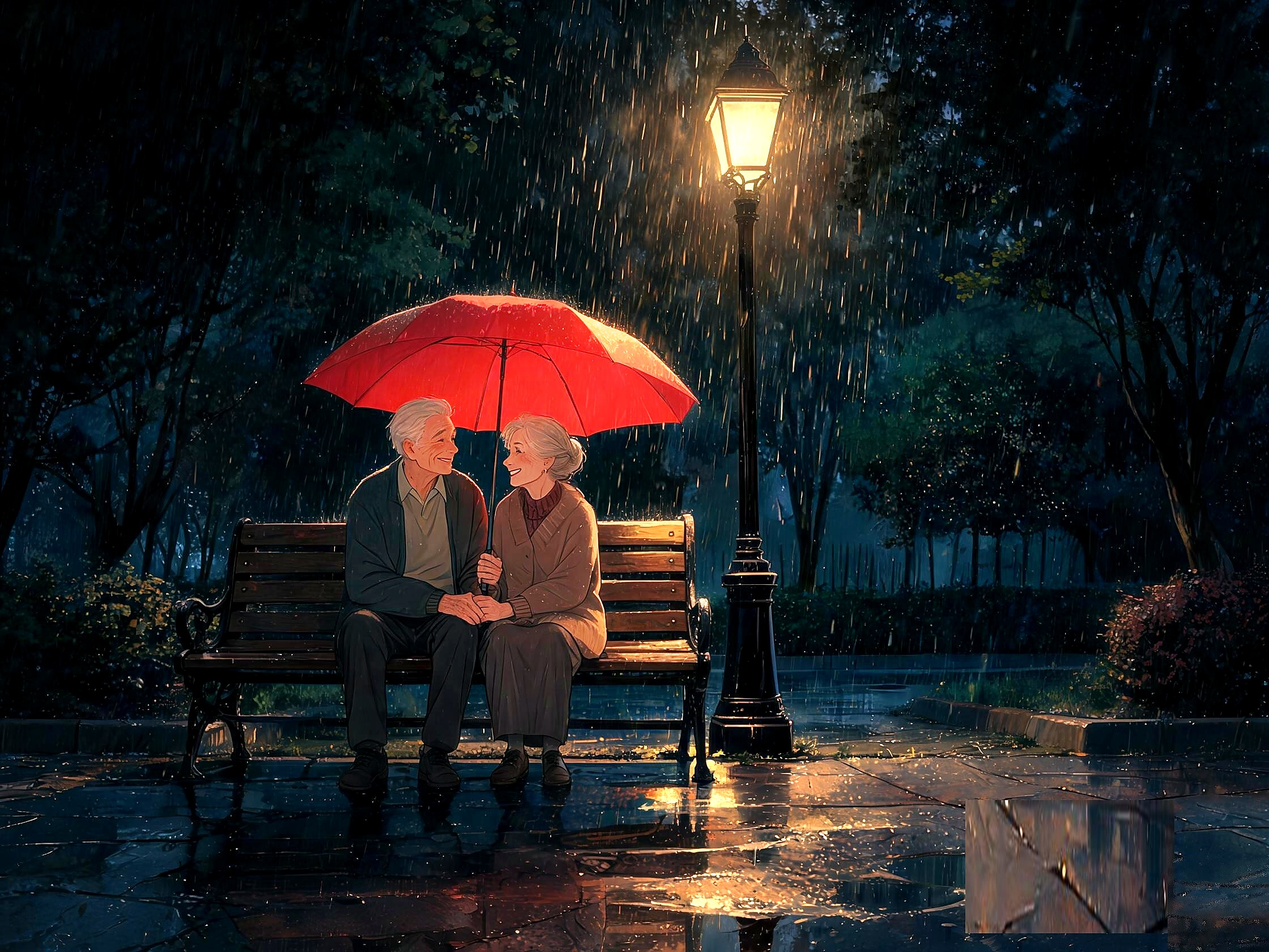
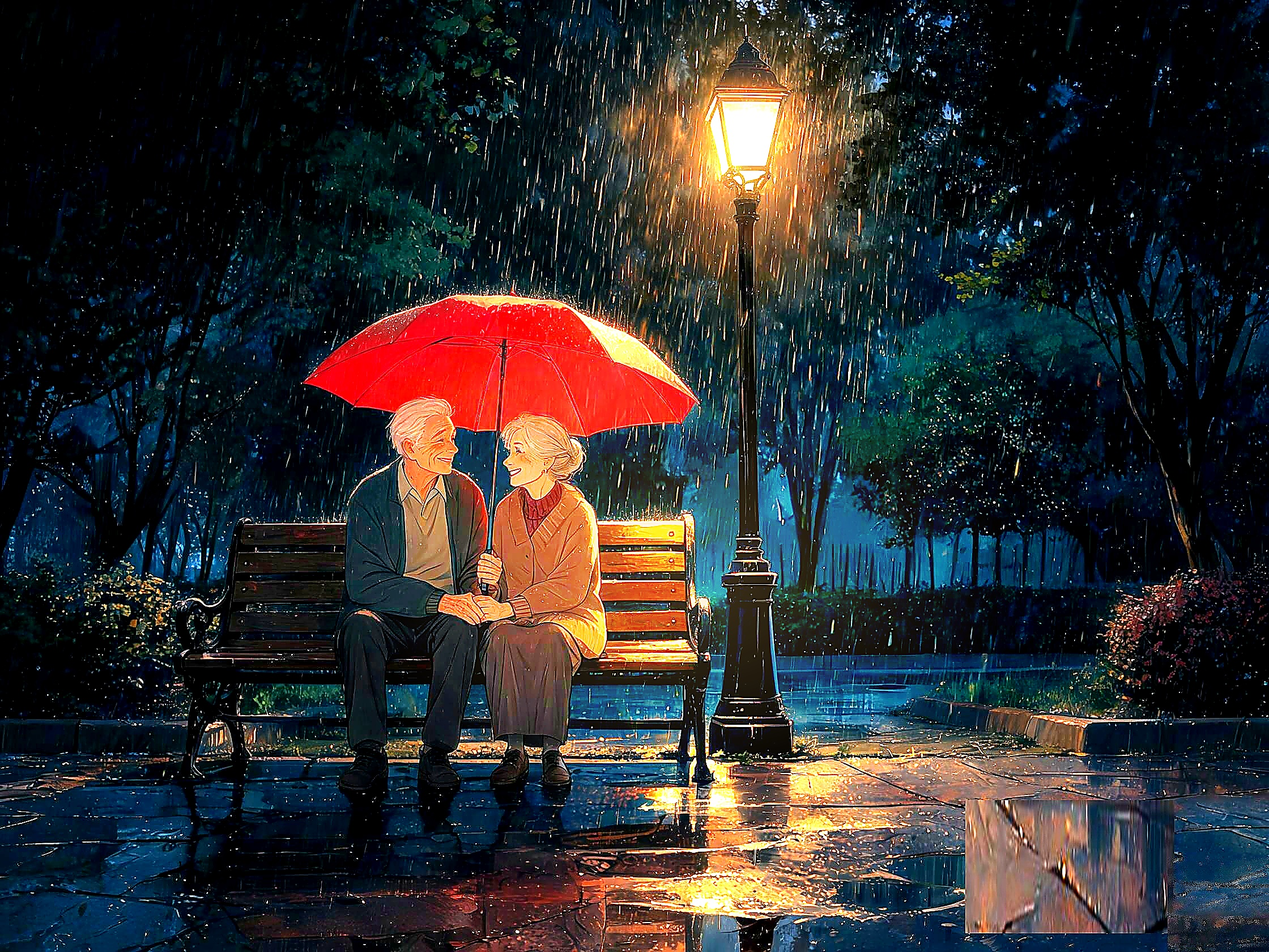
EXTREME FIX: 1) PIL warm images: brighter + radial face brightening + warm color grade + sharpen 2) PIL dark: desat 0.05 + brightness 0.35 + cold blue overlay 45% + heavy vignette 3) Canvas: outside grayscale 0.05 + cold overlay 45% 4) Inside canvas: mild filter + stronger warm glow 5) Global tint o

diff --git a/index.html b/index.html
@@ -283,43 +283,43 @@ function updateSparkle(){
 
 // ===== Background rendering =====
 function drawBgOutside(){
-  // Draw dark image with cold-blue tint — maximize gloom contrast
+  // Draw PIL-processed dark image + extra desaturation/brightness for MAX gloom
   ctx.save();
   ctx.beginPath();
   ctx.rect(0,0,W,H);
   if(phase==='playing'){
     ctx.arc(mirrorX,mirrorY,mirrorRadius,0,Math.PI*2,true); // inverted clip
   }
-  ctx.filter='grayscale(0.1) brightness(0.9) contrast(1.1)';
+  ctx.filter='grayscale(0.05) brightness(0.85) contrast(0.9)';
   drawSceneImage('dark');
   ctx.filter='none';
-  // Cold blue-gray overlay to amplify gloom
-  ctx.fillStyle='rgba(30,45,70,0.18)';
+  // Heavy cold overlay — pure blue-gray wash to kill any remaining warmth
+  ctx.fillStyle='rgba(25,38,58,0.45)';
   ctx.fillRect(0,0,W,H);
   ctx.restore();
 }
 
 function drawBgInside(){
-  // Draw scene with RADIANT warmth — full color, bright, alive
+  // PIL already makes warm images bright/vibrant — canvas just adds a kick
   ctx.save();
   ctx.beginPath();
   ctx.arc(mirrorX,mirrorY,mirrorRadius,0,Math.PI*2);
   ctx.clip();
-  // VIBRANT: max saturation, boosted brightness, crisp contrast — punchy warmth
-  ctx.filter='grayscale(0) saturate(2.2) brightness(1.5) contrast(1.25)';
+  // Mild enhancement on top of PIL-processed image
+  ctx.filter='saturate(1.3) brightness(1.15) contrast(1.1)';
   drawSceneImage('warm');
   ctx.filter='none';
-  // Warm firelight glow — center is golden, edges fade to amber
+  // Strong warm glow to punch it out of the dark
   const glow=ctx.createRadialGradient(mirrorX,mirrorY,0,mirrorX,mirrorY,mirrorRadius);
-  glow.addColorStop(0,'rgba(255,225,150,.5)');
-  glow.addColorStop(0.5,'rgba(255,190,100,.3)');
-  glow.addColorStop(1,'rgba(255,140,60,.1)');
+  glow.addColorStop(0,'rgba(255,235,170,.55)');
+  glow.addColorStop(0.4,'rgba(255,200,120,.4)');
+  glow.addColorStop(1,'rgba(255,160,70,.15)');
   ctx.fillStyle=glow;ctx.fillRect(0,0,W,H);
-  // Sharpen the edge — bright rim of light at mirror boundary
-  const rim=ctx.createRadialGradient(mirrorX,mirrorY,mirrorRadius*0.85,mirrorX,mirrorY,mirrorRadius);
-  rim.addColorStop(0,'rgba(255,240,200,0)');
-  rim.addColorStop(0.9,'rgba(255,240,180,.15)');
-  rim.addColorStop(1,'rgba(255,220,140,.4)');
+  // Edge rim — even brighter
+  const rim=ctx.createRadialGradient(mirrorX,mirrorY,mirrorRadius*0.80,mirrorX,mirrorY,mirrorRadius);
+  rim.addColorStop(0,'rgba(255,245,210,0)');
+  rim.addColorStop(0.85,'rgba(255,245,200,.2)');
+  rim.addColorStop(1,'rgba(255,230,160,.55)');
   ctx.fillStyle=rim;ctx.fillRect(0,0,W,H);
   ctx.restore();
 }
@@ -507,11 +507,16 @@ function drawSparkles(){
   }
 }
 
-// ===== Full canvas cool tint =====
+// ===== Full canvas cool tint — ONLY outside mirror to amplify contrast =====
 function drawGlobalTint(){
   if(phase==='playing'){
-    ctx.fillStyle='rgba(15,18,35,.08)';
+    ctx.save();
+    ctx.beginPath();
+    ctx.rect(0,0,W,H);
+    ctx.arc(mirrorX,mirrorY,mirrorRadius,0,Math.PI*2,true); // clip OUTSIDE mirror only
+    ctx.fillStyle='rgba(15,18,35,.15)';
     ctx.fillRect(0,0,W,H);
+    ctx.restore();
   }
 }
 
@@ -547,17 +552,17 @@ function draw(){
 }
 
 // ===== Load images =====
+// VERSION tag forces browser cache busting — bump when images change!
+const _IMG_V='v5';
 (async()=>{
   await Promise.all([
-    // Warm (inside mirror) images
-    tryLoad('street','./scenes/scene-street.jpg','/scenes/scene-street.jpg'),
-    tryLoad('bus','./scenes/scene-bus-stop.jpg','/scenes/scene-bus-stop.jpg'),
-    tryLoad('park','./scenes/scene-park-bench.jpg','/scenes/scene-park-bench.jpg'),
-    tryLoad('ending','./scenes/scene-ending.jpg','/scenes/scene-ending.jpg'),
-    // Dark (outside mirror) images — completely different scenes
-    tryLoad('dark-street','./scenes/dark-street.jpg','/scenes/dark-street.jpg'),
-    tryLoad('dark-bus-stop','./scenes/dark-bus-stop.jpg','/scenes/dark-bus-stop.jpg'),
-    tryLoad('dark-park-bench','./scenes/dark-park-bench.jpg','/scenes/dark-park-bench.jpg'),
+    tryLoad('street','./scenes/scene-street.jpg?'+_IMG_V),
+    tryLoad('bus','./scenes/scene-bus-stop.jpg?'+_IMG_V),
+    tryLoad('park','./scenes/scene-park-bench.jpg?'+_IMG_V),
+    tryLoad('ending','./scenes/scene-ending.jpg?'+_IMG_V),
+    tryLoad('dark-street','./scenes/dark-street.jpg?'+_IMG_V),
+    tryLoad('dark-bus-stop','./scenes/dark-bus-stop.jpg?'+_IMG_V),
+    tryLoad('dark-park-bench','./scenes/dark-park-bench.jpg?'+_IMG_V),
   ]);
   resize();
   draw();
